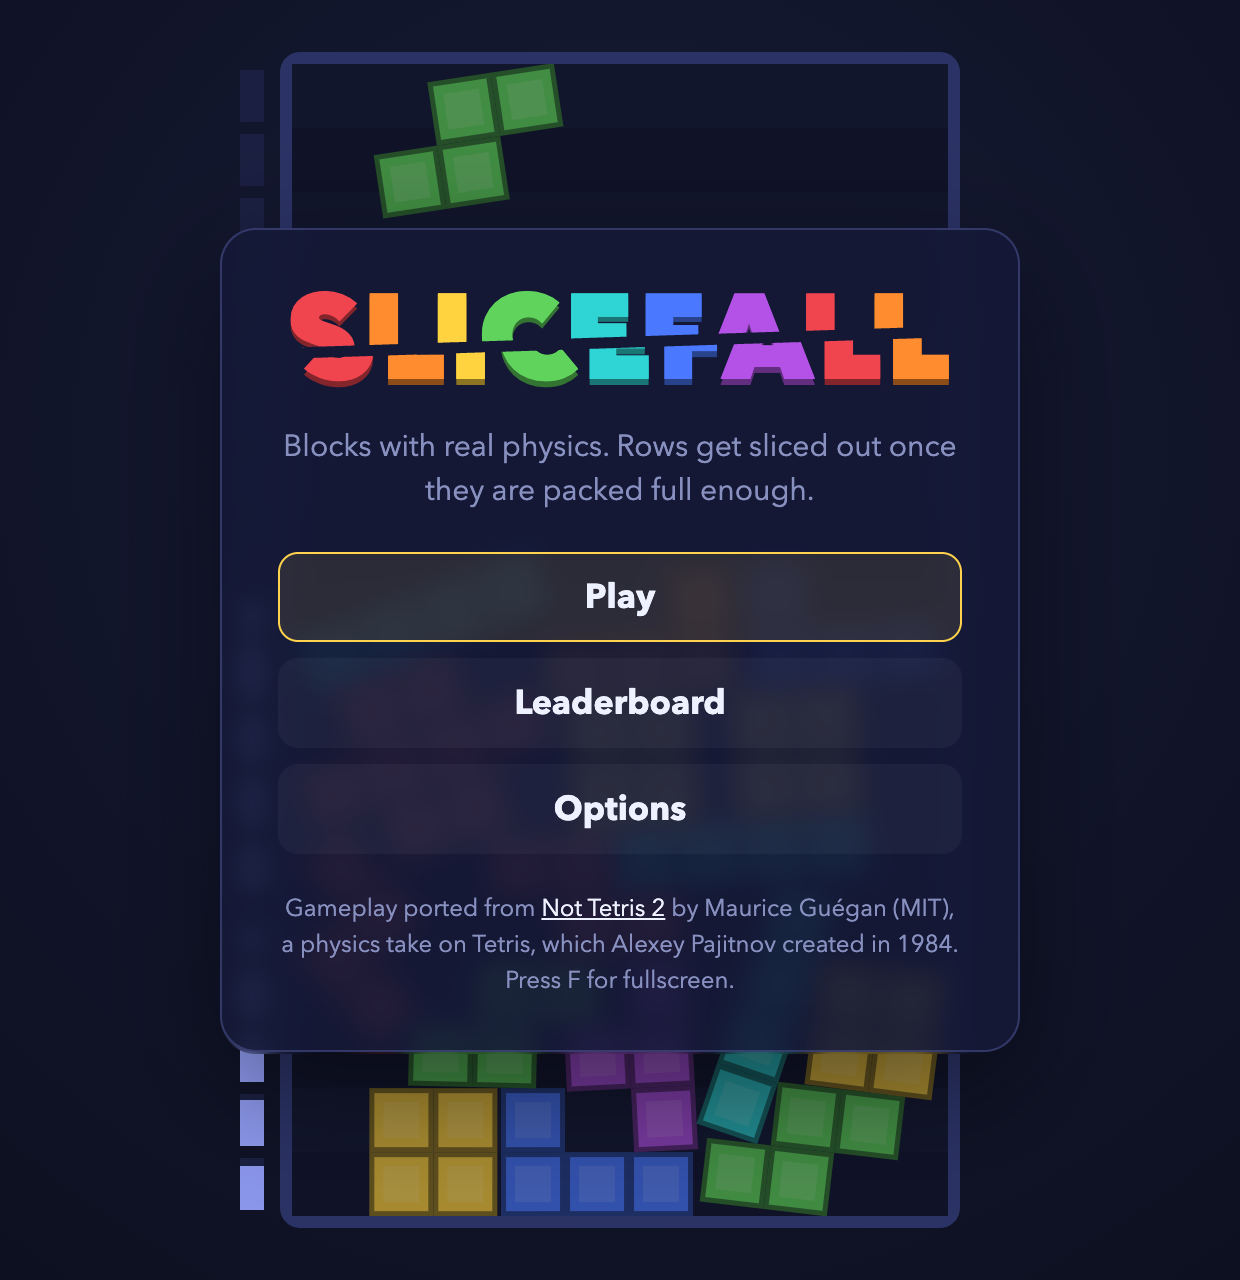
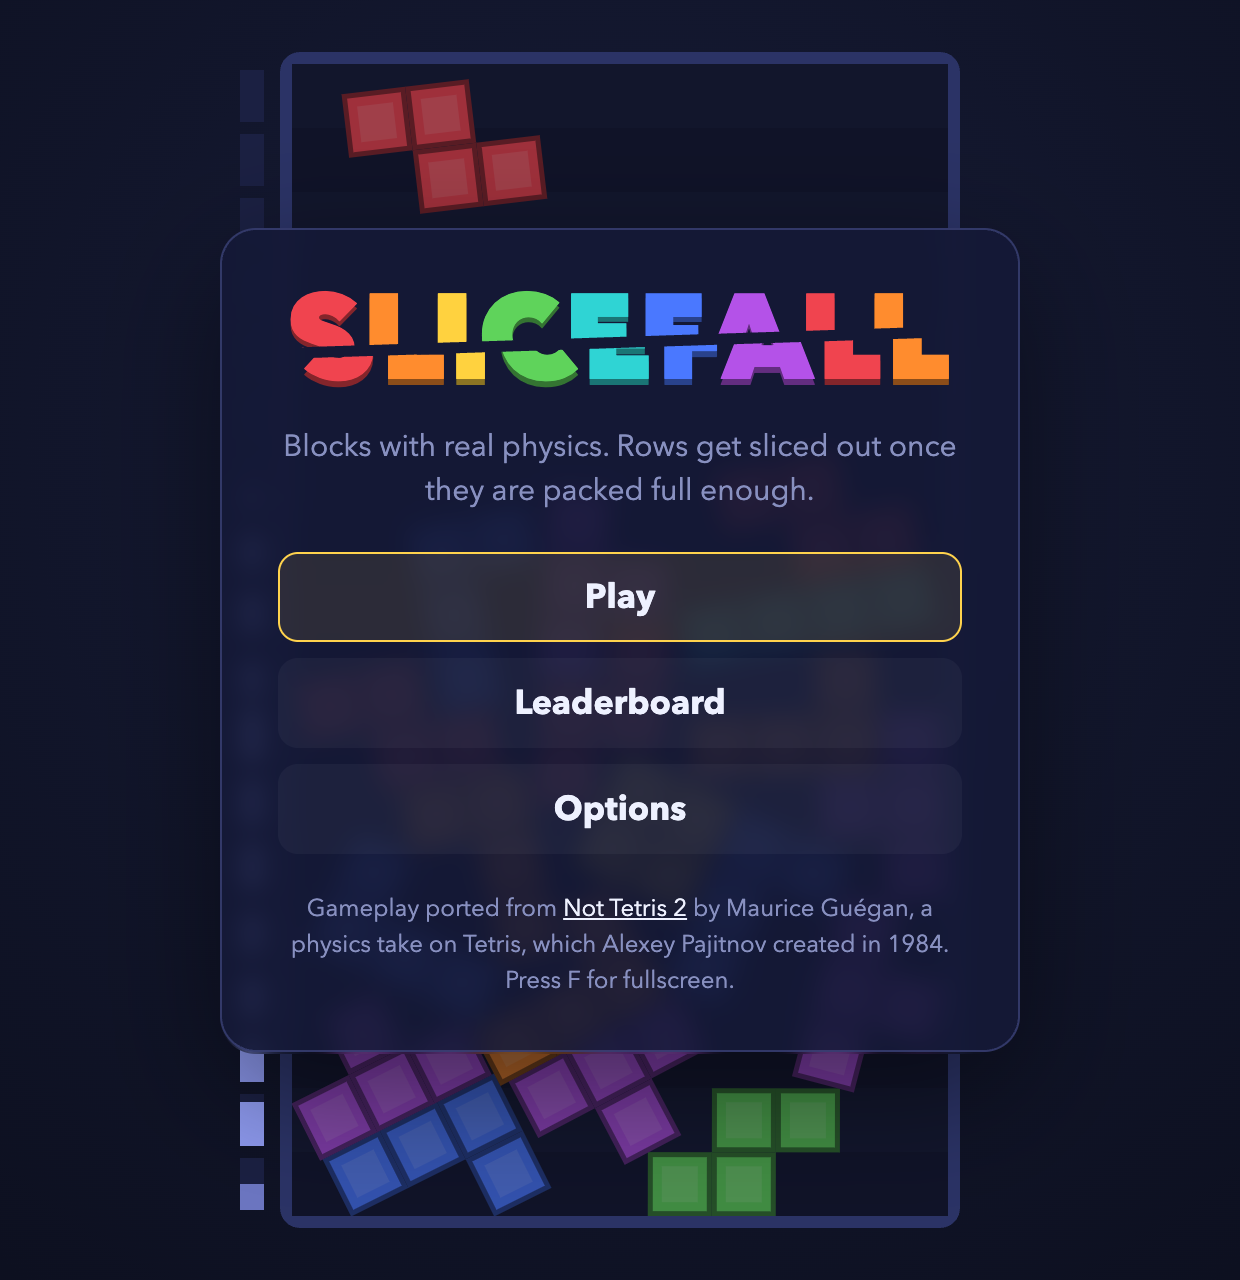
Drop "(MIT)" from the credits
The title screen, README and itch page text credited Maurice Guégan with
"(MIT)" or "(MIT license)" after the name; the credits now just name
him. LICENSE keeps the full MIT notice, which is what the license asks
for. The title screenshot is retaken to match.

diff --git a/itch/description.html b/itch/description.html
@@ -51,7 +51,7 @@ Then upload <code>screenshots/gameplay.gif</code> with the editor's image button
 </ul>
 
 <h2>Credits</h2>
-<p>The gameplay is ported from <a href="https://github.com/Stabyourself/nottetris2">Not Tetris 2</a> by Maurice Guégan (MIT license): its rules and tuning are carried over from the original source. Everything you see and hear is new: the graphics are drawn in code and the music and sound are synthesised at runtime. Physics by <a href="https://github.com/piqnt/planck.js">planck.js</a>.</p>
+<p>The gameplay is ported from <a href="https://github.com/Stabyourself/nottetris2">Not Tetris 2</a> by Maurice Guégan: its rules and tuning are carried over from the original source. Everything you see and hear is new: the graphics are drawn in code and the music and sound are synthesised at runtime. Physics by <a href="https://github.com/piqnt/planck.js">planck.js</a>.</p>
 <p>Not Tetris 2 is itself a physics take on Tetris, which Alexey Pajitnov created in 1984. Tetris is a trademark of The Tetris Company; Slicefall is not affiliated with or endorsed by it.</p>
 </body>
 </html>

diff --git a/src/main.ts b/src/main.ts
@@ -151,7 +151,7 @@ function showTitle() {
       { type: 'button', label: 'Options', action: () => showOptions(showTitle) },
     ],
     footer:
-      'Gameplay ported from <a href="https://github.com/Stabyourself/nottetris2" target="_blank" rel="noopener">Not Tetris 2</a> by Maurice Guégan (MIT), a physics take on Tetris, which Alexey Pajitnov created in 1984.<br>Press F for fullscreen.',
+      'Gameplay ported from <a href="https://github.com/Stabyourself/nottetris2" target="_blank" rel="noopener">Not Tetris 2</a> by Maurice Guégan, a physics take on Tetris, which Alexey Pajitnov created in 1984.<br>Press F for fullscreen.',
   });
 }
 

diff --git a/itch/page.md b/itch/page.md
@@ -68,7 +68,7 @@ fragments drop into the gap.
 ### Credits
 
 The gameplay is ported from [Not Tetris 2](https://github.com/Stabyourself/nottetris2) by Maurice
-Guégan (MIT license): its rules and tuning are carried over from the original source. Everything
+Guégan: its rules and tuning are carried over from the original source. Everything
 you see and hear is new: the graphics are drawn in code and the music and sound are synthesised
 at runtime. Physics by [planck.js](https://github.com/piqnt/planck.js).
 

diff --git a/README.md b/README.md
@@ -1,7 +1,7 @@
 # Slicefall
 
 A browser port of the gameplay from [Not Tetris 2](https://github.com/Stabyourself/nottetris2)
-by Maurice Guégan (MIT). Pieces are real rigid bodies: you push and spin them with forces, they
+by Maurice Guégan. Pieces are real rigid bodies: you push and spin them with forces, they
 tumble and stack, and a row is sliced straight through the pieces once it holds enough area.
 
 The rules and tuning are carried over from the original Lua source; the presentation (name,
